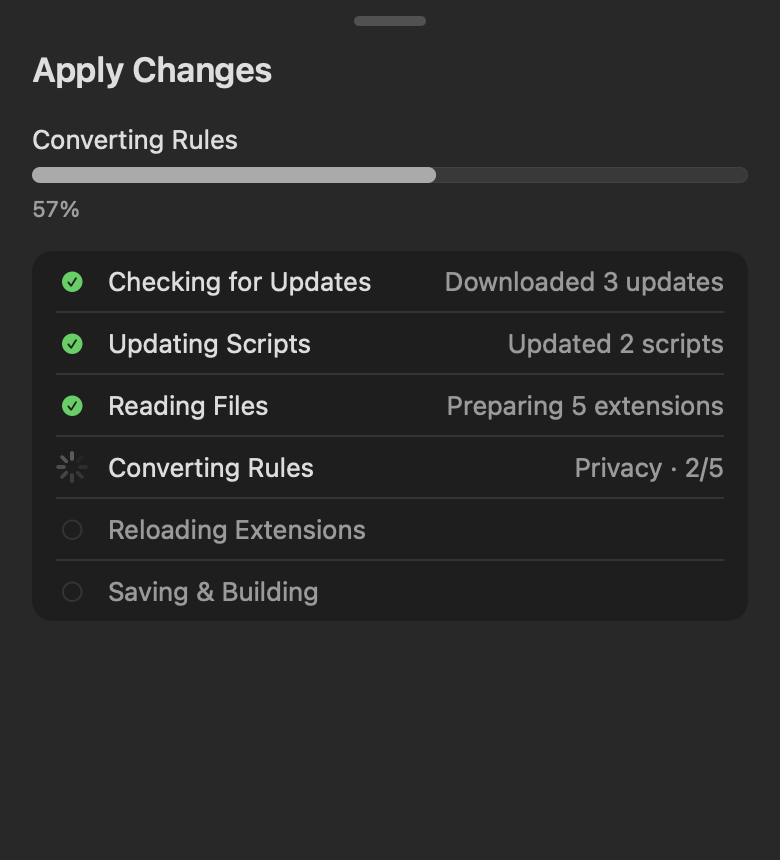
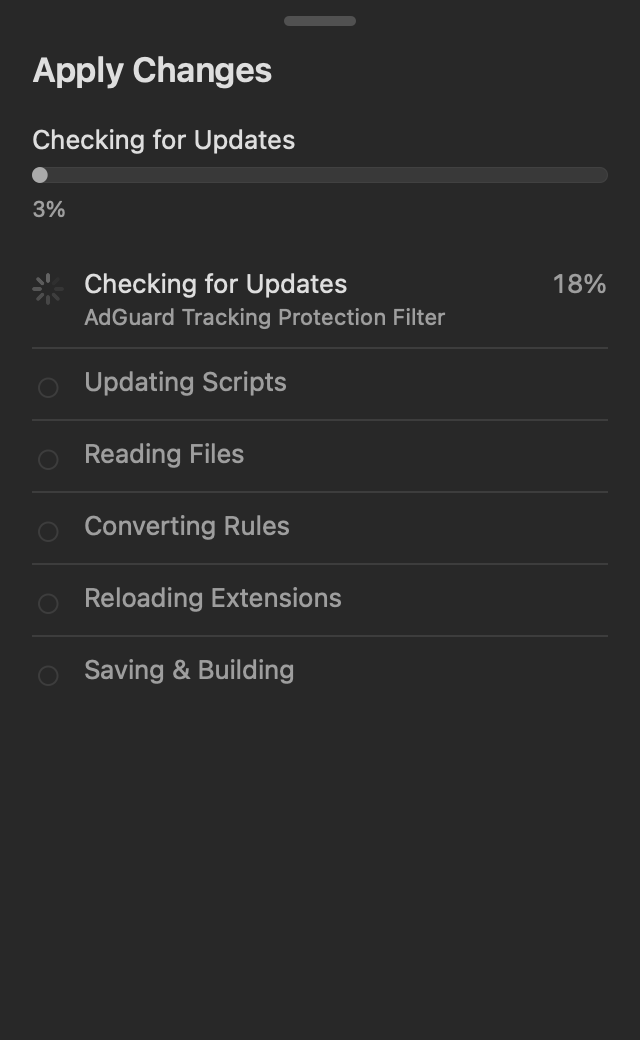
Give apply progress room on narrow phones

diff --git a/wBlock/ApplyProgressField.swift b/wBlock/ApplyProgressField.swift
@@ -9,18 +9,12 @@ import SwiftUI
 
 struct ApplyProgressField: View {
     let presentation: ApplyProgressPresentation
-    var groupedRows: Bool = {
-        #if os(iOS)
-        true
-        #else
-        false
-        #endif
-    }()
 
     var body: some View {
         VStack(alignment: .leading, spacing: 14) {
             ProgressView(value: presentation.progress) {
                 Text(presentation.title)
+                    .fixedSize(horizontal: false, vertical: true)
             } currentValueLabel: {
                 Text(presentation.progressLabel)
                     .monospacedDigit()
@@ -31,36 +25,17 @@ struct ApplyProgressField: View {
             .accessibilityLabel(String(localized: "Apply Changes"))
             .accessibilityValue(presentation.progressLabel)
 
-            rows
-                .padding(.horizontal, groupedRows ? 12 : 0)
-                .background {
-                    if groupedRows {
-                        RoundedRectangle(cornerRadius: 10, style: .continuous)
-                            .fill(Self.groupedFill)
+            VStack(spacing: 0) {
+                ForEach(Array(presentation.nodes.enumerated()), id: \.element.id) { index, node in
+                    if index > 0 {
+                        Divider()
                     }
+                    ApplyProgressRow(node: node)
                 }
+            }
         }
         .frame(maxWidth: .infinity, alignment: .leading)
         .accessibilityElement(children: .contain)
-    }
-
-    private static var groupedFill: Color {
-        #if os(iOS)
-        Color(uiColor: .secondarySystemGroupedBackground)
-        #else
-        Color(nsColor: .controlBackgroundColor)
-        #endif
-    }
-
-    private var rows: some View {
-        VStack(spacing: 0) {
-            ForEach(Array(presentation.nodes.enumerated()), id: \.element.id) { index, node in
-                if index > 0 {
-                    Divider()
-                }
-                ApplyProgressRow(node: node)
-            }
-        }
     }
 }
 
@@ -68,26 +43,39 @@ private struct ApplyProgressRow: View {
     let node: ApplyProgressPresentation.Node
 
     var body: some View {
-        HStack(spacing: 10) {
+        HStack(alignment: .top, spacing: 10) {
             statusLeading
                 .frame(width: 16, height: 16)
+                .padding(.top, 3)
 
-            Text(node.phase.title)
-                .font(.body)
-                .foregroundStyle(node.status == .pending ? .secondary : .primary)
-                .lineLimit(1)
+            VStack(alignment: .leading, spacing: 2) {
+                HStack(alignment: .firstTextBaseline, spacing: 8) {
+                    Text(node.phase.title)
+                        .font(.body)
+                        .foregroundStyle(node.status == .pending ? .secondary : .primary)
+                        .fixedSize(horizontal: false, vertical: true)
 
-            Spacer(minLength: 8)
+                    if let accessory = node.accessory, !accessory.isEmpty {
+                        Spacer(minLength: 8)
+                        Text(accessory)
+                            .font(.body)
+                            .foregroundStyle(.secondary)
+                            .monospacedDigit()
+                            .lineLimit(1)
+                            .layoutPriority(1)
+                    }
+                }
 
-            if let detail = node.detail, !detail.isEmpty {
-                Text(detail)
-                    .font(.body)
-                    .foregroundStyle(.secondary)
-                    .multilineTextAlignment(.trailing)
-                    .lineLimit(2)
+                if let detail = node.detail, !detail.isEmpty {
+                    Text(detail)
+                        .font(.subheadline)
+                        .foregroundStyle(.secondary)
+                        .fixedSize(horizontal: false, vertical: true)
+                }
             }
+            .frame(maxWidth: .infinity, alignment: .leading)
         }
-        .padding(.vertical, 7)
+        .padding(.vertical, 8)
         .accessibilityElement(children: .ignore)
         .accessibilityLabel(node.phase.title)
         .accessibilityValue(node.accessibilityValue)

diff --git a/scripts/render_apply_progress_previews.swift b/scripts/render_apply_progress_previews.swift
@@ -9,30 +9,31 @@ struct ApplyProgressPreviewRenderer {
         app.setActivationPolicy(.accessory)
 
         let converting = convertingPresentation()
+        let updating = updatingPresentation()
         let outDir = URL(fileURLWithPath: FileManager.default.currentDirectoryPath)
             .appendingPathComponent("docs/media/img", isDirectory: true)
 
         write(
             macSheet(converting),
-            size: CGSize(width: 500, height: 318),
+            size: CGSize(width: 500, height: 400),
             appearance: .aqua,
             to: outDir.appendingPathComponent("apply_progress_light.png")
         )
         write(
             macSheet(converting),
-            size: CGSize(width: 500, height: 318),
+            size: CGSize(width: 500, height: 400),
             appearance: .darkAqua,
             to: outDir.appendingPathComponent("apply_progress_dark.png")
         )
         write(
-            iosSheet(converting),
-            size: CGSize(width: 390, height: 430),
+            iosSheet(updating),
+            size: CGSize(width: 320, height: 520),
             appearance: .aqua,
             to: outDir.appendingPathComponent("apply_progress_ios_light.png")
         )
         write(
-            iosSheet(converting),
-            size: CGSize(width: 390, height: 430),
+            iosSheet(updating),
+            size: CGSize(width: 320, height: 520),
             appearance: .darkAqua,
             to: outDir.appendingPathComponent("apply_progress_ios_dark.png")
         )
@@ -49,7 +50,16 @@ struct ApplyProgressPreviewRenderer {
         viewModel.updateProcessedCount(0, total: 5)
         viewModel.updatePhaseCompletion(reading: true, converting: false)
         viewModel.updateConvertingDone(2)
-        viewModel.updateCurrentFilter("Privacy")
+        viewModel.updateCurrentFilter("AdGuard Tracking Protection Filter")
+        return ApplyProgressPresentation.make(from: viewModel.state)
+    }
+
+    @MainActor
+    private static func updatingPresentation() -> ApplyProgressPresentation {
+        let viewModel = ApplyChangesViewModel()
+        viewModel.beginProgressRun()
+        viewModel.updateCurrentFilter("AdGuard Tracking Protection Filter")
+        viewModel.updatePhaseProgress(0.18)
         return ApplyProgressPresentation.make(from: viewModel.state)
     }
 
@@ -60,7 +70,7 @@ struct ApplyProgressPreviewRenderer {
             ApplyProgressField(presentation: presentation)
         }
         .padding(20)
-        .frame(width: 500, height: 318, alignment: .topLeading)
+        .frame(width: 500, height: 400, alignment: .topLeading)
         .background(Color(nsColor: .windowBackgroundColor))
     }
 
@@ -75,14 +85,14 @@ struct ApplyProgressPreviewRenderer {
             VStack(alignment: .leading, spacing: 16) {
                 Text("Apply Changes")
                     .font(.title2.weight(.semibold))
-                ApplyProgressField(presentation: presentation, groupedRows: true)
+                ApplyProgressField(presentation: presentation)
             }
             .padding(.horizontal, 16)
             .padding(.bottom, 20)
 
             Spacer(minLength: 0)
         }
-        .frame(width: 390, height: 430, alignment: .top)
+        .frame(width: 320, height: 520, alignment: .top)
         .background(Color(nsColor: .underPageBackgroundColor))
     }
 

diff --git a/scripts/test_apply_progress_field_contract.swift b/scripts/test_apply_progress_field_contract.swift
@@ -20,6 +20,7 @@ let model = try read("wBlock/ApplyChangesViewModel.swift")
 require(model.contains("struct ApplyProgressPresentation"), "missing presentation model")
 require(model.contains("static func make(from state: ApplyChangesState)"), "presentation must be derived from apply state")
 require(model.contains("rowDetail(for:"), "each phase row must carry its own detail")
+require(model.contains("let accessory: String?"), "short fractions must stay off the detail line")
 require(model.contains("var progressLabel"), "the bar caption must come from the same snapshot as the fill")
 require(model.contains("if step.status == .failed"), "failed rows must not repeat the failure card")
 require(view.contains("ApplyProgressField(presentation: presentation)"), "progress must use the shared field")
@@ -28,6 +29,11 @@ require(field.contains("ProgressView(value: presentation.progress)"), "the bar m
 require(field.contains("presentation.progressLabel"), "the bar caption must describe that same fill")
 require(field.contains("ProgressView()"), "the active row must use the system spinner")
 require(field.contains("checkmark.circle.fill"), "completed rows must use the system checkmark")
+require(field.contains("node.accessory"), "short fractions must trail the title, not the list name")
+require(field.contains(".fixedSize(horizontal: false, vertical: true)"), "titles and details must wrap on a narrow sheet")
+require(!field.contains("lineLimit(1)\n                Spacer"), "phase titles must not truncate beside the current list")
+require(!field.contains("groupedRows"), "iOS must not wrap the list in a second card")
+require(!field.contains("secondarySystemGroupedBackground"), "custom grouped fills must stay out of the field")
 require(!field.contains("ApplyProgressTrack"), "custom-drawn tracks must stay out of the native field")
 require(!field.contains("ApplyPhaseRail"), "custom phase rails must stay out of the native field")
 require(!field.contains("displayedProgress"), "the field must not keep a second progress value")

diff --git a/wBlock/ApplyChangesViewModel.swift b/wBlock/ApplyChangesViewModel.swift
@@ -307,13 +307,24 @@ struct ApplyProgressPresentation: Equatable {
         let phase: ApplyChangesPhase
         let status: ApplyChangesPhaseStatus
         let detail: String?
+        let accessory: String?
         var id: ApplyChangesPhase { phase }
 
         var accessibilityValue: String {
             if status == .failed {
                 return String(localized: "Failed")
             }
-            return detail ?? ""
+            switch (detail, accessory) {
+            case let (detail?, accessory?)
+                where !detail.isEmpty && !accessory.isEmpty && detail != accessory:
+                return "\(detail) · \(accessory)"
+            case let (detail?, _) where !detail.isEmpty:
+                return detail
+            case let (_, accessory?):
+                return accessory
+            default:
+                return ""
+            }
         }
     }
 
@@ -338,7 +349,8 @@ struct ApplyProgressPresentation: Equatable {
             Node(
                 phase: step.phase,
                 status: step.status,
-                detail: rowDetail(for: step, state: state)
+                detail: rowDetail(for: step, state: state),
+                accessory: fractionLabel(for: step, state: state)
             )
         }
         return ApplyProgressPresentation(
@@ -405,14 +417,7 @@ struct ApplyProgressPresentation: Equatable {
         if step.status == .failed {
             return nil
         }
-        let text = detail(for: step, state: state)
-        guard step.status == .active, let fraction = fractionLabel(for: step, state: state) else {
-            return text
-        }
-        if let text, !text.isEmpty, text != fraction {
-            return "\(text) · \(fraction)"
-        }
-        return fraction
+        return detail(for: step, state: state)
     }
 
     private static func fractionLabel(for step: ApplyChangesPhaseProgress, state: ApplyChangesState) -> String? {

diff --git a/scripts/test_apply_progress_presentation.swift b/scripts/test_apply_progress_presentation.swift
@@ -342,9 +342,12 @@ struct ApplyProgressPresentationTests {
         let presentation = ApplyProgressPresentation.make(from: viewModel.state)
         check(presentation.detail == "AdGuard Base Filter", "the live update row must name the in-flight list")
         check(
-            node(presentation, .updating)?.detail
-                == "AdGuard Base Filter · " + ApplyProgressPresentation.percentString(0.93),
-            "the update row should keep the list name and local fraction together"
+            node(presentation, .updating)?.detail == "AdGuard Base Filter",
+            "the update row should keep the list name on its own line"
+        )
+        check(
+            node(presentation, .updating)?.accessory == ApplyProgressPresentation.percentString(0.93),
+            "the update row should keep the local fraction as a short accessory"
         )
         checkAlmostEqual(presentation.progress, 0.93 / 6.0, "overall fill stays in the first segment")
     }
@@ -415,8 +418,12 @@ struct ApplyProgressPresentationTests {
             "completed reading rows must keep the extension count"
         )
         check(
-            node(presentation, .converting)?.detail == "Privacy · 2/5",
-            "the active converting row should show the target and fraction"
+            node(presentation, .converting)?.detail == "Privacy",
+            "the active converting row should show the target under the title"
+        )
+        check(
+            node(presentation, .converting)?.accessory == "2/5",
+            "the active converting row should keep the fraction as a short accessory"
         )
         check(node(presentation, .reloading)?.detail == nil, "pending reload has no detail")
         check(node(presentation, .saving)?.detail == nil, "pending save has no detail")
